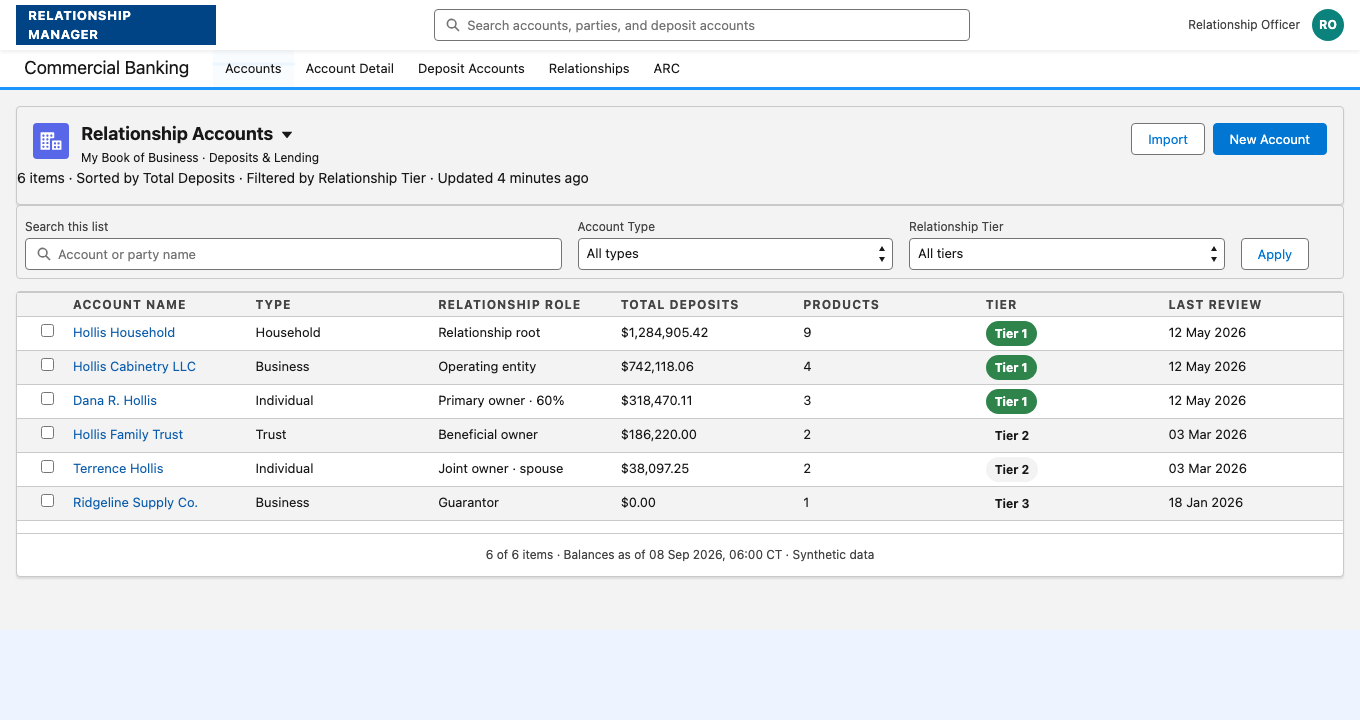
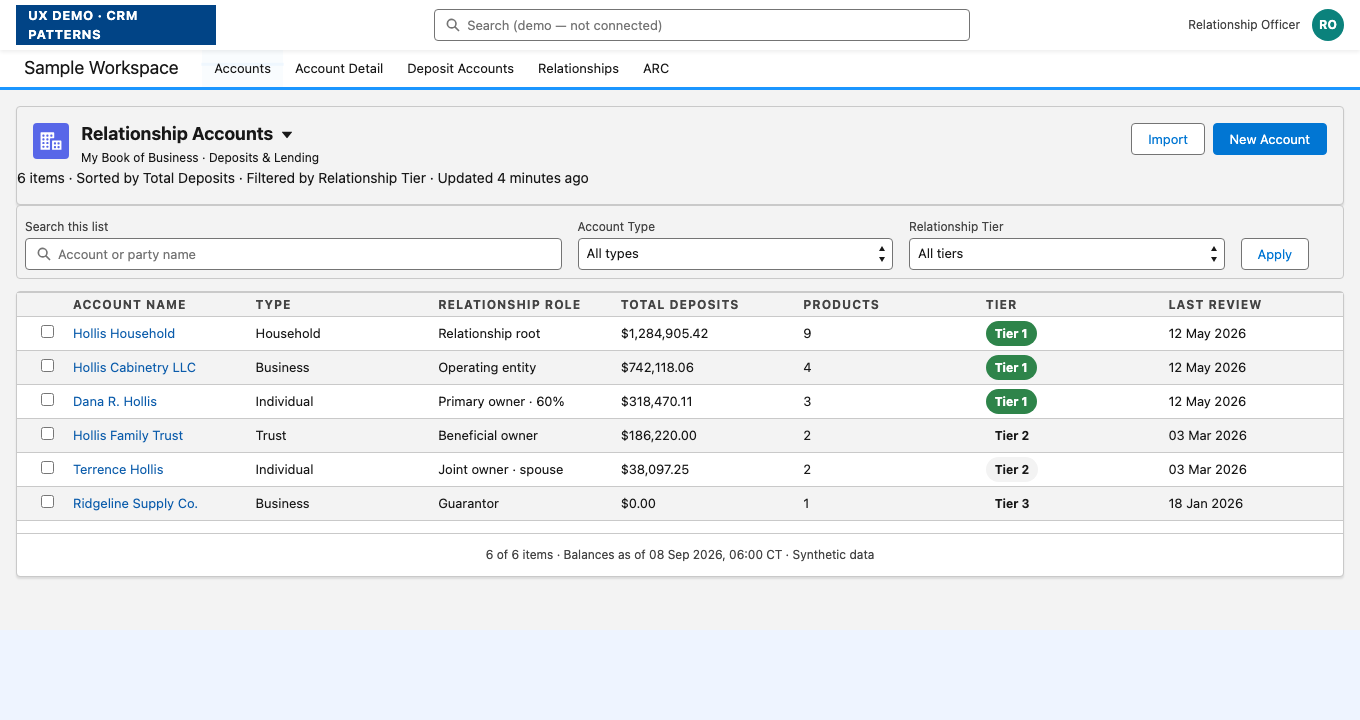
fix: de-risk the prototype against Safe Browsing phishing heuristics
Prepared in response to a Chrome "Dangerous site" interstitial. The prototype
paired a bank-style account interface - masked account numbers, balances, a
CIF and tax ID, "Commercial Banking" chrome - with a real bank's name, on a
domain registered hours earlier. That is close to the canonical profile of a
credential-harvesting page, and an automated classifier does not read the
disclaimer underneath it.

Nothing here changes the design work. It changes what the page claims to be.

- Renamed arvest-prototype.html to slds-relationship-prototype.html so the
  bank's name is out of the URL. Links updated.
- Title and description now say plainly that this is a non-functional design
  prototype that collects nothing and connects to no financial system.
- Disclaimer no longer names a bank, and leads with "not a real application"
  instead of burying it after the reconstruction claim.
- Chrome retired: "RELATIONSHIP MANAGER" becomes "UX DEMO · CRM PATTERNS",
  "Commercial Banking" becomes "Sample Workspace", and the search field says
  it is not connected.
- All 27 masked account numbers change from the ••1234 pattern to SAMPLE-1234,
  which removes the format classifiers key on. Tax ID is no longer rendered.
- robots is now noindex, nofollow.

Case-study screenshots regenerated from this build, so the images match what
ships. The case study keeps naming Arvest in prose - that is ordinary
portfolio attribution on a text page, not a bank interface.

diff --git a/projects/slds-relationship-prototype.html b/projects/slds-relationship-prototype.html
@@ -4,9 +4,9 @@
 <script>(function(){if(location.hostname==='trendinux.github.io'){var p=location.pathname.replace(/^\/work/,'')||'/';location.replace('https://jonludesign.com'+p+location.search+location.hash);}})();</script>
 <meta charset="UTF-8">
 <meta name="viewport" content="width=device-width, initial-scale=1.0">
-<title>Relationship Manager — SLDS Prototype | Jonathan Lu</title>
-<meta name="description" content="Interactive Salesforce Lightning Design System prototype: household relationship mapping and deposit account management. Representative reconstruction, synthetic data.">
-<meta name="robots" content="noindex">
+<title>UX Design Prototype (Demo Data) — Jonathan Lu Portfolio</title>
+<meta name="description" content="A non-functional user-interface design prototype from a design portfolio. Demonstrates layout and interaction patterns only. All names, numbers and figures are invented. Collects no data and is not a real application.">
+<meta name="robots" content="noindex, nofollow">
 <link rel="stylesheet" href="https://cdn.jsdelivr.net/npm/@salesforce-ux/design-system@2.264.1/assets/styles/salesforce-lightning-design-system.min.css">
 <style>
   body{margin:0;background:#f3f3f3;font-family:-apple-system,BlinkMacSystemFont,'Segoe UI',Roboto,Helvetica,Arial,sans-serif}
@@ -129,9 +129,10 @@
 
 <div class="pf-bar">
   <div class="pf-note">
-    <b>Portfolio prototype.</b> Representative reconstruction of relationship-mapping and deposit-servicing patterns,
-    rebuilt in Salesforce Lightning Design System 2.264.1. All customers, entities, account numbers and balances are
-    synthetic. Not Arvest Bank software, data, or proprietary UI.
+    <b>Design prototype &mdash; not a real application.</b> This is a static user-interface mock-up from a design
+    portfolio. It has no login, collects nothing, and connects to no bank or financial system. Every person, company,
+    account number and balance shown is invented for demonstration. Not any financial institution&rsquo;s software,
+    data, or interface.
   </div>
   <a class="pf-back" href="arvest.html">← Back to case study</a>
 </div>
@@ -143,7 +144,7 @@
     <div class="slds-global-header slds-grid slds-grid_align-spread">
       <div class="slds-global-header__item">
         <div class="slds-global-header__logo" style="background:#014486;display:flex;align-items:center;padding:0 12px">
-          <span style="color:#fff;font-weight:700;font-size:13px;letter-spacing:.04em">RELATIONSHIP MANAGER</span>
+          <span style="color:#fff;font-weight:700;font-size:13px;letter-spacing:.04em">UX DEMO &middot; CRM PATTERNS</span>
         </div>
       </div>
       <div class="slds-global-header__item slds-global-header__item_search" role="search">
@@ -153,7 +154,7 @@
             <svg class="slds-icon slds-input__icon slds-icon-text-default" aria-hidden="true">
               <use xlink:href="#u-search"></use>
             </svg>
-            <input type="search" id="global-search" class="slds-input" placeholder="Search accounts, parties, and deposit accounts">
+            <input type="search" id="global-search" class="slds-input" placeholder="Search (demo &mdash; not connected)">
           </div>
         </div>
       </div>
@@ -171,7 +172,7 @@
     <div class="slds-context-bar__primary">
       <div class="slds-context-bar__item slds-context-bar__dropdown-trigger slds-no-hover">
         <span class="slds-context-bar__label-action slds-context-bar__app-name">
-          <span class="slds-truncate" title="Commercial Banking">Commercial Banking</span>
+          <span class="slds-truncate" title="Sample workspace">Sample Workspace</span>
         </span>
       </div>
     </div>
@@ -421,7 +422,7 @@
             </li>
             <li class="slds-page-header__detail-block">
               <div class="slds-text-title slds-truncate">CIF / Tax ID</div>
-              <div class="slds-truncate slds-text-body_regular">CIF 44-2098117 &middot; ••-•••4471</div>
+              <div class="slds-truncate slds-text-body_regular">CIF SAMPLE-2098117 &middot; tax ID not shown</div>
             </li>
             <li class="slds-page-header__detail-block">
               <div class="slds-text-title slds-truncate">KYC Review</div>
@@ -593,7 +594,7 @@
                         <div class="slds-grid slds-grid_align-spread slds-timeline__trigger">
                           <div class="slds-grid slds-grid_vertical-align-center slds-truncate_container_75 slds-no-space">
                             <input type="checkbox" class="slds-m-right_x-small" aria-label="Complete task">
-                            <h3 class="slds-truncate"><a href="javascript:void(0)"><strong>Retention call — CD ••1147 matures 02 Oct</strong></a></h3>
+                            <h3 class="slds-truncate"><a href="javascript:void(0)"><strong>Retention call — CD SAMPLE-1147 matures 02 Oct</strong></a></h3>
                           </div>
                           <div class="slds-timeline__actions slds-timeline__actions_inline">
                             <p class="slds-timeline__date">Sep 18</p>
@@ -726,7 +727,7 @@
                     </div>
                   </header>
                   <div class="slds-post__content slds-text-longform slds-m-top_x-small">
-                    <p>Positive pay exceptions on ••7734 cleared to zero for a third straight week after the 10:00 CT review moved earlier. Closing service request 00041182 unless anyone objects.</p>
+                    <p>Positive pay exceptions on SAMPLE-7734 cleared to zero for a third straight week after the 10:00 CT review moved earlier. Closing service request 00041182 unless anyone objects.</p>
                   </div>
                   <footer class="slds-post__footer slds-m-top_x-small">
                     <ul class="slds-post__footer-actions-list slds-list_horizontal">
@@ -940,30 +941,30 @@
                   <li>
                     <div class="oh-node is-biz"><div><span class="oh-nm">Hollis Cabinetry LLC</span><span class="slds-badge slds-m-left_x-small">ownership 100% recorded</span><div class="oh-sub">Business &middot; operating entity &middot; owned by Dana R. Hollis and the Hollis Family Trust</div></div><span class="oh-amt">$742,118.06</span></div>
                     <ul>
-                      <li><div class="oh-acct"><span>Business Checking &bull;&bull;7734</span><span class="oh-amt">$286,402.19</span></div></li>
-                      <li><div class="oh-acct"><span>Business Operating &bull;&bull;7735</span><span class="oh-amt">$126,478.25</span></div></li>
-                      <li><div class="oh-acct"><span>Business Reserve Savings &bull;&bull;9018</span><span class="oh-amt">$104,237.62</span></div></li>
-                      <li><div class="oh-acct"><span>Business Money Market &bull;&bull;3390</span><span class="oh-amt">$225,000.00</span></div></li>
+                      <li><div class="oh-acct"><span>Business Checking SAMPLE-7734</span><span class="oh-amt">$286,402.19</span></div></li>
+                      <li><div class="oh-acct"><span>Business Operating SAMPLE-7735</span><span class="oh-amt">$126,478.25</span></div></li>
+                      <li><div class="oh-acct"><span>Business Reserve Savings SAMPLE-9018</span><span class="oh-amt">$104,237.62</span></div></li>
+                      <li><div class="oh-acct"><span>Business Money Market SAMPLE-3390</span><span class="oh-amt">$225,000.00</span></div></li>
                     </ul>
                   </li>
                   <li>
                     <div class="oh-node is-person"><div><span class="oh-nm">Dana R. Hollis</span><span class="slds-badge slds-m-left_x-small">owns 60% of Cabinetry</span><div class="oh-sub">Individual &middot; household member, authorized signer</div></div><span class="oh-amt">$318,470.11</span></div>
                     <ul>
-                      <li><div class="oh-acct"><span>Personal Checking &bull;&bull;4821</span><span class="oh-amt">$42,118.44</span></div></li>
-                      <li><div class="oh-acct"><span>Personal Savings &bull;&bull;5502</span><span class="oh-amt">$91,351.67</span></div></li>
-                      <li><div class="oh-acct"><span>18-Month CD &bull;&bull;1147</span><span class="oh-amt">$185,000.00</span></div></li>
+                      <li><div class="oh-acct"><span>Personal Checking SAMPLE-4821</span><span class="oh-amt">$42,118.44</span></div></li>
+                      <li><div class="oh-acct"><span>Personal Savings SAMPLE-5502</span><span class="oh-amt">$91,351.67</span></div></li>
+                      <li><div class="oh-acct"><span>18-Month CD SAMPLE-1147</span><span class="oh-amt">$185,000.00</span></div></li>
                     </ul>
                   </li>
                   <li>
                     <div class="oh-node is-trust"><div><span class="oh-nm">Hollis Family Trust</span><span class="slds-badge slds-m-left_x-small">owns 40% of Cabinetry</span><div class="oh-sub">Trust &middot; household member</div></div><span class="oh-amt">$186,220.00</span></div>
                     <ul>
-                      <li><div class="oh-acct"><span>36-Month CD &bull;&bull;2260</span><span class="oh-amt">$186,220.00</span></div></li>
+                      <li><div class="oh-acct"><span>36-Month CD SAMPLE-2260</span><span class="oh-amt">$186,220.00</span></div></li>
                     </ul>
                   </li>
                   <li>
                     <div class="oh-node is-person"><div><span class="oh-nm">Terrence Hollis</span><div class="oh-sub">Individual &middot; authorized signer on Cabinetry, no ownership</div></div><span class="oh-amt">$38,097.25</span></div>
                     <ul>
-                      <li><div class="oh-acct"><span>Joint Checking &bull;&bull;4822</span><span class="oh-amt">$38,097.25</span></div></li>
+                      <li><div class="oh-acct"><span>Joint Checking SAMPLE-4822</span><span class="oh-amt">$38,097.25</span></div></li>
                     </ul>
                   </li>
                   <li>
@@ -1209,20 +1210,20 @@
                   <th class="slds-text-title_caps">Current</th><th class="slds-text-title_caps">Status</th>
                 </tr></thead>
                 <tbody>
-                  <tr class="slds-hint-parent"><th scope="row"><a href="javascript:void(0)">Business Checking ••7734</a></th><td>Hollis Cabinetry LLC</td><td>Commercial Analysis</td><td>$284,902.19</td><td>$286,402.19</td><td><span class="slds-badge slds-theme_success">Active</span></td></tr>
-                  <tr class="slds-hint-parent"><th scope="row"><a href="javascript:void(0)">Business Operating ••7735</a></th><td>Hollis Cabinetry LLC</td><td>Commercial Analysis</td><td>$126,478.25</td><td>$126,478.25</td><td><span class="slds-badge slds-theme_success">Active</span></td></tr>
-                  <tr class="slds-hint-parent"><th scope="row"><a href="javascript:void(0)">Joint Checking ••4822</a></th><td>Terrence &amp; Dana Hollis</td><td>Consumer Interest</td><td>$38,097.25</td><td>$38,097.25</td><td><span class="slds-badge slds-theme_success">Active</span></td></tr>
+                  <tr class="slds-hint-parent"><th scope="row"><a href="javascript:void(0)">Business Checking SAMPLE-7734</a></th><td>Hollis Cabinetry LLC</td><td>Commercial Analysis</td><td>$284,902.19</td><td>$286,402.19</td><td><span class="slds-badge slds-theme_success">Active</span></td></tr>
+                  <tr class="slds-hint-parent"><th scope="row"><a href="javascript:void(0)">Business Operating SAMPLE-7735</a></th><td>Hollis Cabinetry LLC</td><td>Commercial Analysis</td><td>$126,478.25</td><td>$126,478.25</td><td><span class="slds-badge slds-theme_success">Active</span></td></tr>
+                  <tr class="slds-hint-parent"><th scope="row"><a href="javascript:void(0)">Joint Checking SAMPLE-4822</a></th><td>Terrence &amp; Dana Hollis</td><td>Consumer Interest</td><td>$38,097.25</td><td>$38,097.25</td><td><span class="slds-badge slds-theme_success">Active</span></td></tr>
                 </tbody>
               </table>
             </div>
           </article>
           <article class="slds-card slds-m-top_small">
-            <div class="slds-card__header"><h2 class="slds-card__header-title">Business Checking ••7734 — product terms</h2></div>
+            <div class="slds-card__header"><h2 class="slds-card__header-title">Business Checking SAMPLE-7734 — product terms</h2></div>
             <div class="slds-card__body slds-card__body_inner">
               <dl class="slds-list_horizontal slds-wrap">
                 <dt class="slds-item_label slds-text-color_weak">Earnings credit rate</dt><dd class="slds-item_detail">1.85% &middot; applied to analysis fees</dd>
                 <dt class="slds-item_label slds-text-color_weak">Monthly analysis fees</dt><dd class="slds-item_detail">$214.60 &middot; fully offset by credit</dd>
-                <dt class="slds-item_label slds-text-color_weak">Overdraft protection</dt><dd class="slds-item_detail">Linked to Business Reserve ••9018</dd>
+                <dt class="slds-item_label slds-text-color_weak">Overdraft protection</dt><dd class="slds-item_detail">Linked to Business Reserve SAMPLE-9018</dd>
                 <dt class="slds-item_label slds-text-color_weak">Signers</dt><dd class="slds-item_detail">Dana R. Hollis &middot; Terrence Hollis</dd>
                 <dt class="slds-item_label slds-text-color_weak">Positive pay</dt><dd class="slds-item_detail">Enabled &middot; exceptions reviewed daily 10:00 CT</dd>
               </dl>
@@ -1242,8 +1243,8 @@
                   <th class="slds-text-title_caps">Withdrawals this cycle</th><th class="slds-text-title_caps">Status</th>
                 </tr></thead>
                 <tbody>
-                  <tr class="slds-hint-parent"><th scope="row"><a href="javascript:void(0)">Business Reserve ••9018</a></th><td>Hollis Cabinetry LLC</td><td>2.40%</td><td>$104,237.62</td><td>1 of 6</td><td><span class="slds-badge slds-theme_success">Active</span></td></tr>
-                  <tr class="slds-hint-parent"><th scope="row"><a href="javascript:void(0)">Personal Savings ••5502</a></th><td>Dana R. Hollis</td><td>2.15%</td><td>$91,351.67</td><td>3 of 6</td><td><span class="slds-badge slds-theme_success">Active</span></td></tr>
+                  <tr class="slds-hint-parent"><th scope="row"><a href="javascript:void(0)">Business Reserve SAMPLE-9018</a></th><td>Hollis Cabinetry LLC</td><td>2.40%</td><td>$104,237.62</td><td>1 of 6</td><td><span class="slds-badge slds-theme_success">Active</span></td></tr>
+                  <tr class="slds-hint-parent"><th scope="row"><a href="javascript:void(0)">Personal Savings SAMPLE-5502</a></th><td>Dana R. Hollis</td><td>2.15%</td><td>$91,351.67</td><td>3 of 6</td><td><span class="slds-badge slds-theme_success">Active</span></td></tr>
                 </tbody>
               </table>
             </div>
@@ -1265,7 +1266,7 @@
                   <th class="slds-text-title_caps">Blended APY</th><th class="slds-text-title_caps">Balance</th><th class="slds-text-title_caps">Status</th>
                 </tr></thead>
                 <tbody>
-                  <tr class="slds-hint-parent"><th scope="row"><a href="javascript:void(0)">Business Money Market ••3390</a></th><td>Hollis Cabinetry LLC</td><td>3.42%</td><td>$225,000.00</td><td><span class="slds-badge slds-theme_success">Active</span></td></tr>
+                  <tr class="slds-hint-parent"><th scope="row"><a href="javascript:void(0)">Business Money Market SAMPLE-3390</a></th><td>Hollis Cabinetry LLC</td><td>3.42%</td><td>$225,000.00</td><td><span class="slds-badge slds-theme_success">Active</span></td></tr>
                 </tbody>
               </table>
             </div>
@@ -1306,20 +1307,20 @@
                   <th class="slds-text-title_caps">Renewal</th>
                 </tr></thead>
                 <tbody>
-                  <tr class="slds-hint-parent"><th scope="row"><a href="javascript:void(0)">18-Month CD ••1147</a></th><td>Dana R. Hollis</td><td>18 mo</td><td>4.10%</td><td>$185,000.00</td><td><span class="slds-badge slds-theme_warning">02 Oct 2026 — 24 days</span></td><td>Auto-renew</td></tr>
-                  <tr class="slds-hint-parent"><th scope="row"><a href="javascript:void(0)">36-Month CD ••2260</a></th><td>Hollis Family Trust</td><td>36 mo</td><td>4.35%</td><td>$186,220.00</td><td>19 Jul 2028</td><td>Notify at maturity</td></tr>
+                  <tr class="slds-hint-parent"><th scope="row"><a href="javascript:void(0)">18-Month CD SAMPLE-1147</a></th><td>Dana R. Hollis</td><td>18 mo</td><td>4.10%</td><td>$185,000.00</td><td><span class="slds-badge slds-theme_warning">02 Oct 2026 — 24 days</span></td><td>Auto-renew</td></tr>
+                  <tr class="slds-hint-parent"><th scope="row"><a href="javascript:void(0)">36-Month CD SAMPLE-2260</a></th><td>Hollis Family Trust</td><td>36 mo</td><td>4.35%</td><td>$186,220.00</td><td>19 Jul 2028</td><td>Notify at maturity</td></tr>
                 </tbody>
               </table>
             </div>
           </article>
           <article class="slds-card slds-m-top_small">
-            <div class="slds-card__header"><h2 class="slds-card__header-title">18-Month CD ••1147 — maturity handling</h2></div>
+            <div class="slds-card__header"><h2 class="slds-card__header-title">18-Month CD SAMPLE-1147 — maturity handling</h2></div>
             <div class="slds-card__body slds-card__body_inner">
               <dl class="slds-list_horizontal slds-wrap">
                 <dt class="slds-item_label slds-text-color_weak">Grace period</dt><dd class="slds-item_detail">10 calendar days from maturity</dd>
                 <dt class="slds-item_label slds-text-color_weak">Early withdrawal penalty</dt><dd class="slds-item_detail">180 days simple interest on amount withdrawn</dd>
                 <dt class="slds-item_label slds-text-color_weak">Renewal rate (indicative)</dt><dd class="slds-item_detail">3.85% &middot; not guaranteed until maturity date</dd>
-                <dt class="slds-item_label slds-text-color_weak">Interest disposition</dt><dd class="slds-item_detail">Credit to Personal Checking ••4821</dd>
+                <dt class="slds-item_label slds-text-color_weak">Interest disposition</dt><dd class="slds-item_detail">Credit to Personal Checking SAMPLE-4821</dd>
                 <dt class="slds-item_label slds-text-color_weak">Officer action</dt><dd class="slds-item_detail"><span class="slds-badge slds-theme_warning">Retention call due</span> — inside 30-day window</dd>
               </dl>
             </div>
@@ -1343,7 +1344,7 @@
                 </tr></thead>
                 <tbody>
                   <tr class="slds-hint-parent"><th scope="row"><a href="javascript:void(0)">Term Loan #LN-40912</a></th><td>Hollis Cabinetry LLC</td><td>Commercial loan &middot; guaranteed</td><td>$1,150,000.00 outstanding</td><td><span class="slds-badge slds-theme_success">Current</span></td></tr>
-                  <tr class="slds-hint-parent"><th scope="row"><a href="javascript:void(0)">HELOC ••6604</a></th><td>Dana &amp; Terrence Hollis</td><td>Revolving line</td><td>$0.00 drawn of $150,000</td><td><span class="slds-badge slds-theme_success">Open</span></td></tr>
+                  <tr class="slds-hint-parent"><th scope="row"><a href="javascript:void(0)">HELOC SAMPLE-6604</a></th><td>Dana &amp; Terrence Hollis</td><td>Revolving line</td><td>$0.00 drawn of $150,000</td><td><span class="slds-badge slds-theme_success">Open</span></td></tr>
                   <tr class="slds-hint-parent"><th scope="row"><a href="javascript:void(0)">Safe Deposit Box 214-B</a></th><td>Hollis Family Trust</td><td>Non-deposit service</td><td>—</td><td><span class="slds-badge">Annual fee due 01 Dec</span></td></tr>
                 </tbody>
               </table>
@@ -1535,7 +1536,7 @@
   var ARCN = {
     'hollis-hh':{n:'Hollis Household',ic:'s-household',rel:'Primary household',tfa:'$1,284,905.42',aum:'$412,880.00',next:'02 Oct 2026',last:'27 Aug 2026',
       parts:['Dana R. Hollis — Client','Terrence Hollis — Client;Spouse','Marisol Hollis — Dependent'],
-      ins:['CD ••1147 matures in 24 days — $185,000 at risk','Wallet share 38% (estimate) — deposit concentration in one entity'],
+      ins:['CD SAMPLE-1147 matures in 24 days — $185,000 at risk','Wallet share 38% (estimate) — deposit concentration in one entity'],
       lists:[{t:'Group Relationships',ic:'s-household',items:['vance-hh']},
              {t:'Related Accounts',ic:'s-account_info',items:['cabinetry','ridgeline']},
              {t:'Member Relationships',ic:'s-account',items:['trust']},
@@ -1567,7 +1568,7 @@
              {t:'Household Insurance',ic:'s-account',items:[]}]},
     'trust':{n:'Hollis Family Trust',ic:'s-account',rel:'Beneficial owner',tfa:'$186,220.00',aum:'$186,220.00',next:'—',last:'03 Mar 2026',
       parts:['Alan Whitfield — Trust counsel','Marisol Hollis — Beneficiary'],
-      ins:['Successor trustee documentation incomplete','36-month CD ••2260 matures 19 Jul 2028'],
+      ins:['Successor trustee documentation incomplete','36-month CD SAMPLE-2260 matures 19 Jul 2028'],
       lists:[{t:'Group Relationships',ic:'s-household',items:[]},
              {t:'Related Accounts',ic:'s-account_info',items:['cabinetry']},
              {t:'Member Relationships',ic:'s-account',items:[]},

diff --git a/projects/arvest.html b/projects/arvest.html
@@ -783,7 +783,7 @@ footer{padding:48px 64px 64px;border-top:1px solid var(--line);display:flex;just
 </div>
 
 <div class="proj-gallery">
-<a class="proto-card" href="arvest-prototype.html">
+<a class="proto-card" href="slds-relationship-prototype.html">
   <div class="proto-shot"><img src="img/arvest-arc.png" alt="Preview of the interactive SLDS prototype" loading="lazy"></div>
   <div class="proto-body">
     <div class="eyebrow"><span class="num">INTERACTIVE</span> SLDS PROTOTYPE</div>
